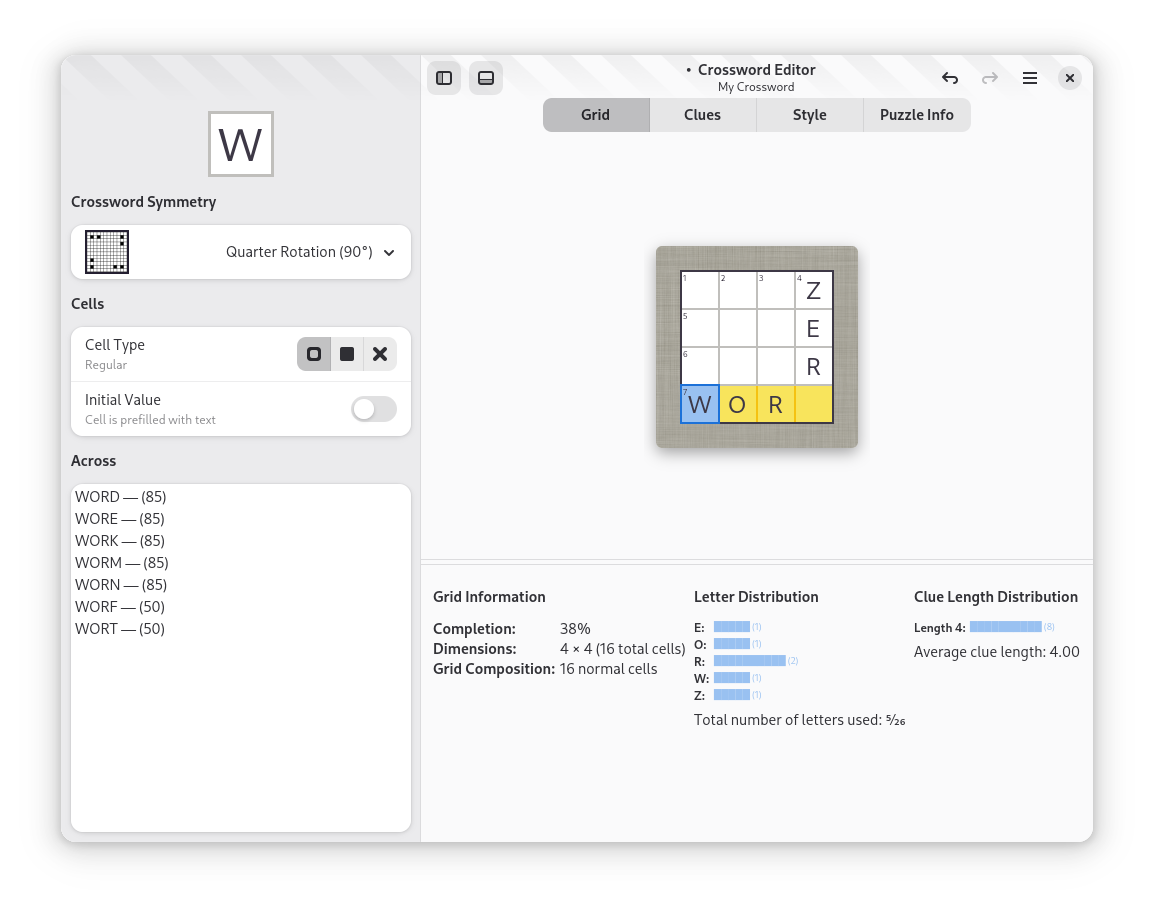
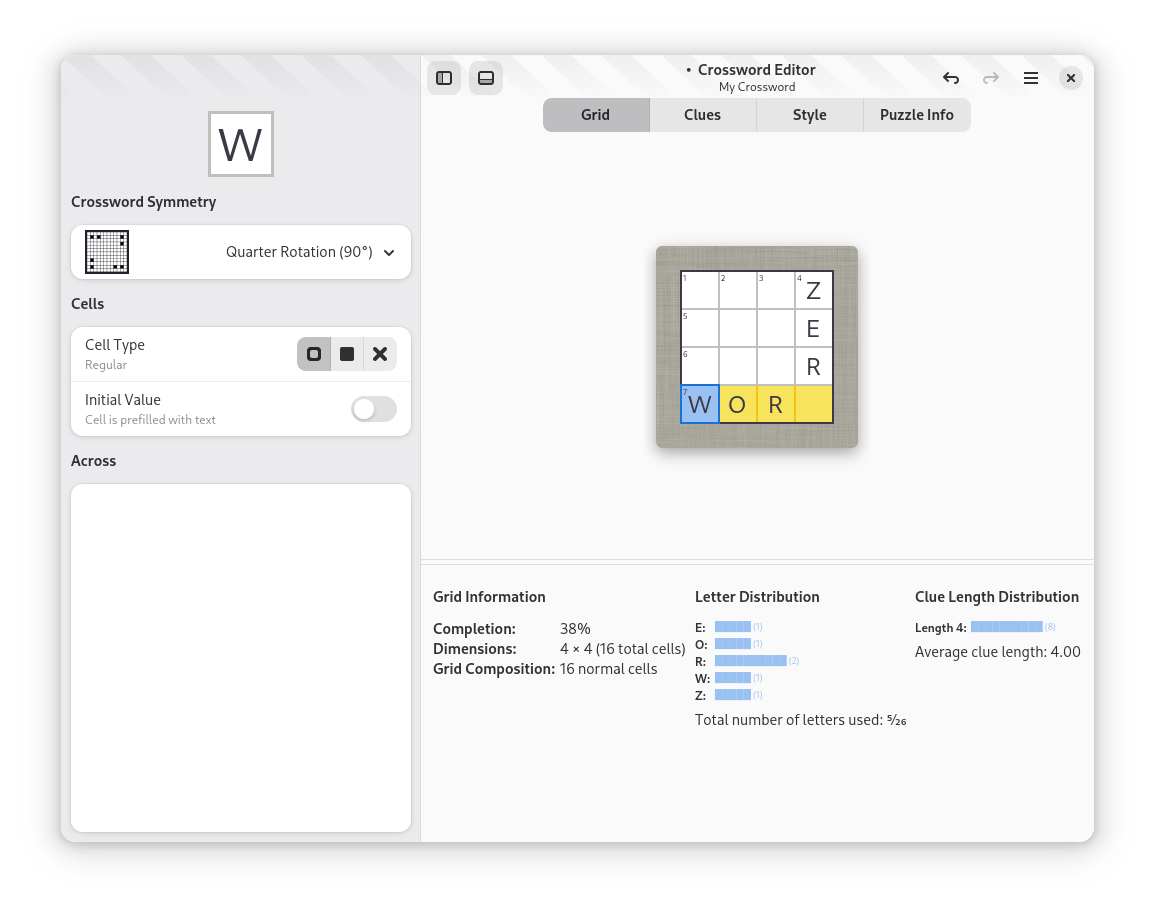
Backup

diff --git a/content/posts/2025-08-05-lookahead-working/index.md b/content/posts/2025-08-05-lookahead-working/index.md
@@ -3,25 +3,26 @@ title      = "It's alive!"
 date       = '2025-08-05'
 slug       = 'gsoc-6'
 categories = ['GSoC']
-draft      = true
 +++
 
-In the last two weeks, I've been working on my lookahead-based word suggestion algorithm. And it's finally functional! There's still a lot more work to be done, but it's great to see that the [original problem](http://localhost:1313/posts/gsoc-5/#design-doc) I set out to solve is now solved.
+In the last two weeks, I've been working on my lookahead-based word suggestion algorithm. And it's finally functional! There's still a lot more work to be done, but it's great to see that the [original problem](http://localhost:1313/posts/gsoc-5/#design-doc) I set out to solve is now solved by my new algorithm.
 
 
 ## Without my changes
 
-Here's the upstream Crosswords Editor, with a problematic grid:
+Here's what the upstream Crosswords Editor looks like, with a problematic grid:
 
 ![Broken behaviour](https://victorma.ca/posts/gsoc-6/broken.png)
 
-The app suggests words like *WORD* and *WORM*, for the 4-Across slot. But no suggestion is valid, because they all cause 4-Down to contain an invalid word.
+The editor suggests words like *WORD* and *WORM*, for the 4-Across slot. But none of the suggestions are valid, because the grid is actually unfillable. This means that there are no possible word suggestions for the grid.
 
-THe problem is that the current word suggestion algorithm only looks at the row and column where the cursor is. So it has no idea about the 4-Down slot. If it could see 4-Down, it would know that no word fits in 4-Across that also fits in 4-Down---and it would return an empty word suggestion list.
+The words that the editor suggests do work for 4-Across. But they do not work for 4-Down. They all cause 4-Down to become a nonsensical word.
+
+The problem here is that the current word suggestion algorithm only looks at the row and column where the cursor is. So it sees 4-Across and 1-Down---but it has no idea about 4-Down. If it could see 4-Down, then it would realise that no word that fits in 4-Across also fits in 4-Down---and it would return an empty word suggestion list.
 
 
 ## With my changes
 
-My algorithm fixes this problem by looking at *every* intersecting slot of the current slot. In the problematic grid, the current slot is 4-Across. So, my algorithm looks at 1-Down, 2-Down, 3-Down, and 4-Down. When it reaches 4-Down, it sees that no letter fits in the empty cell. Every possible letter leads to either 4-Across or 4-Down or both slots to contain an invalid word. So, the algorithm correctly returns an empty list of word suggestions.
+My algorithm fixes the problem by considering *every* intersecting slot of the current slot. In the example grid, the current slot is 4-Across. So, my algorithm looks at 1-Down, 2-Down, 3-Down, and 4-Down. When it reaches 4-Down, it sees that no letter fits in the empty cell. Every possible letter leads to either 4-Across or 4-Down or both slots to contain an invalid word. So, my algorithm correctly returns an empty list of word suggestions.
 
-![Fixed behaviou](https://victorma.ca/posts/gsoc-6/fixed.png)
+![Fixed behaviour](https://victorma.ca/posts/gsoc-6/fixed.png)
